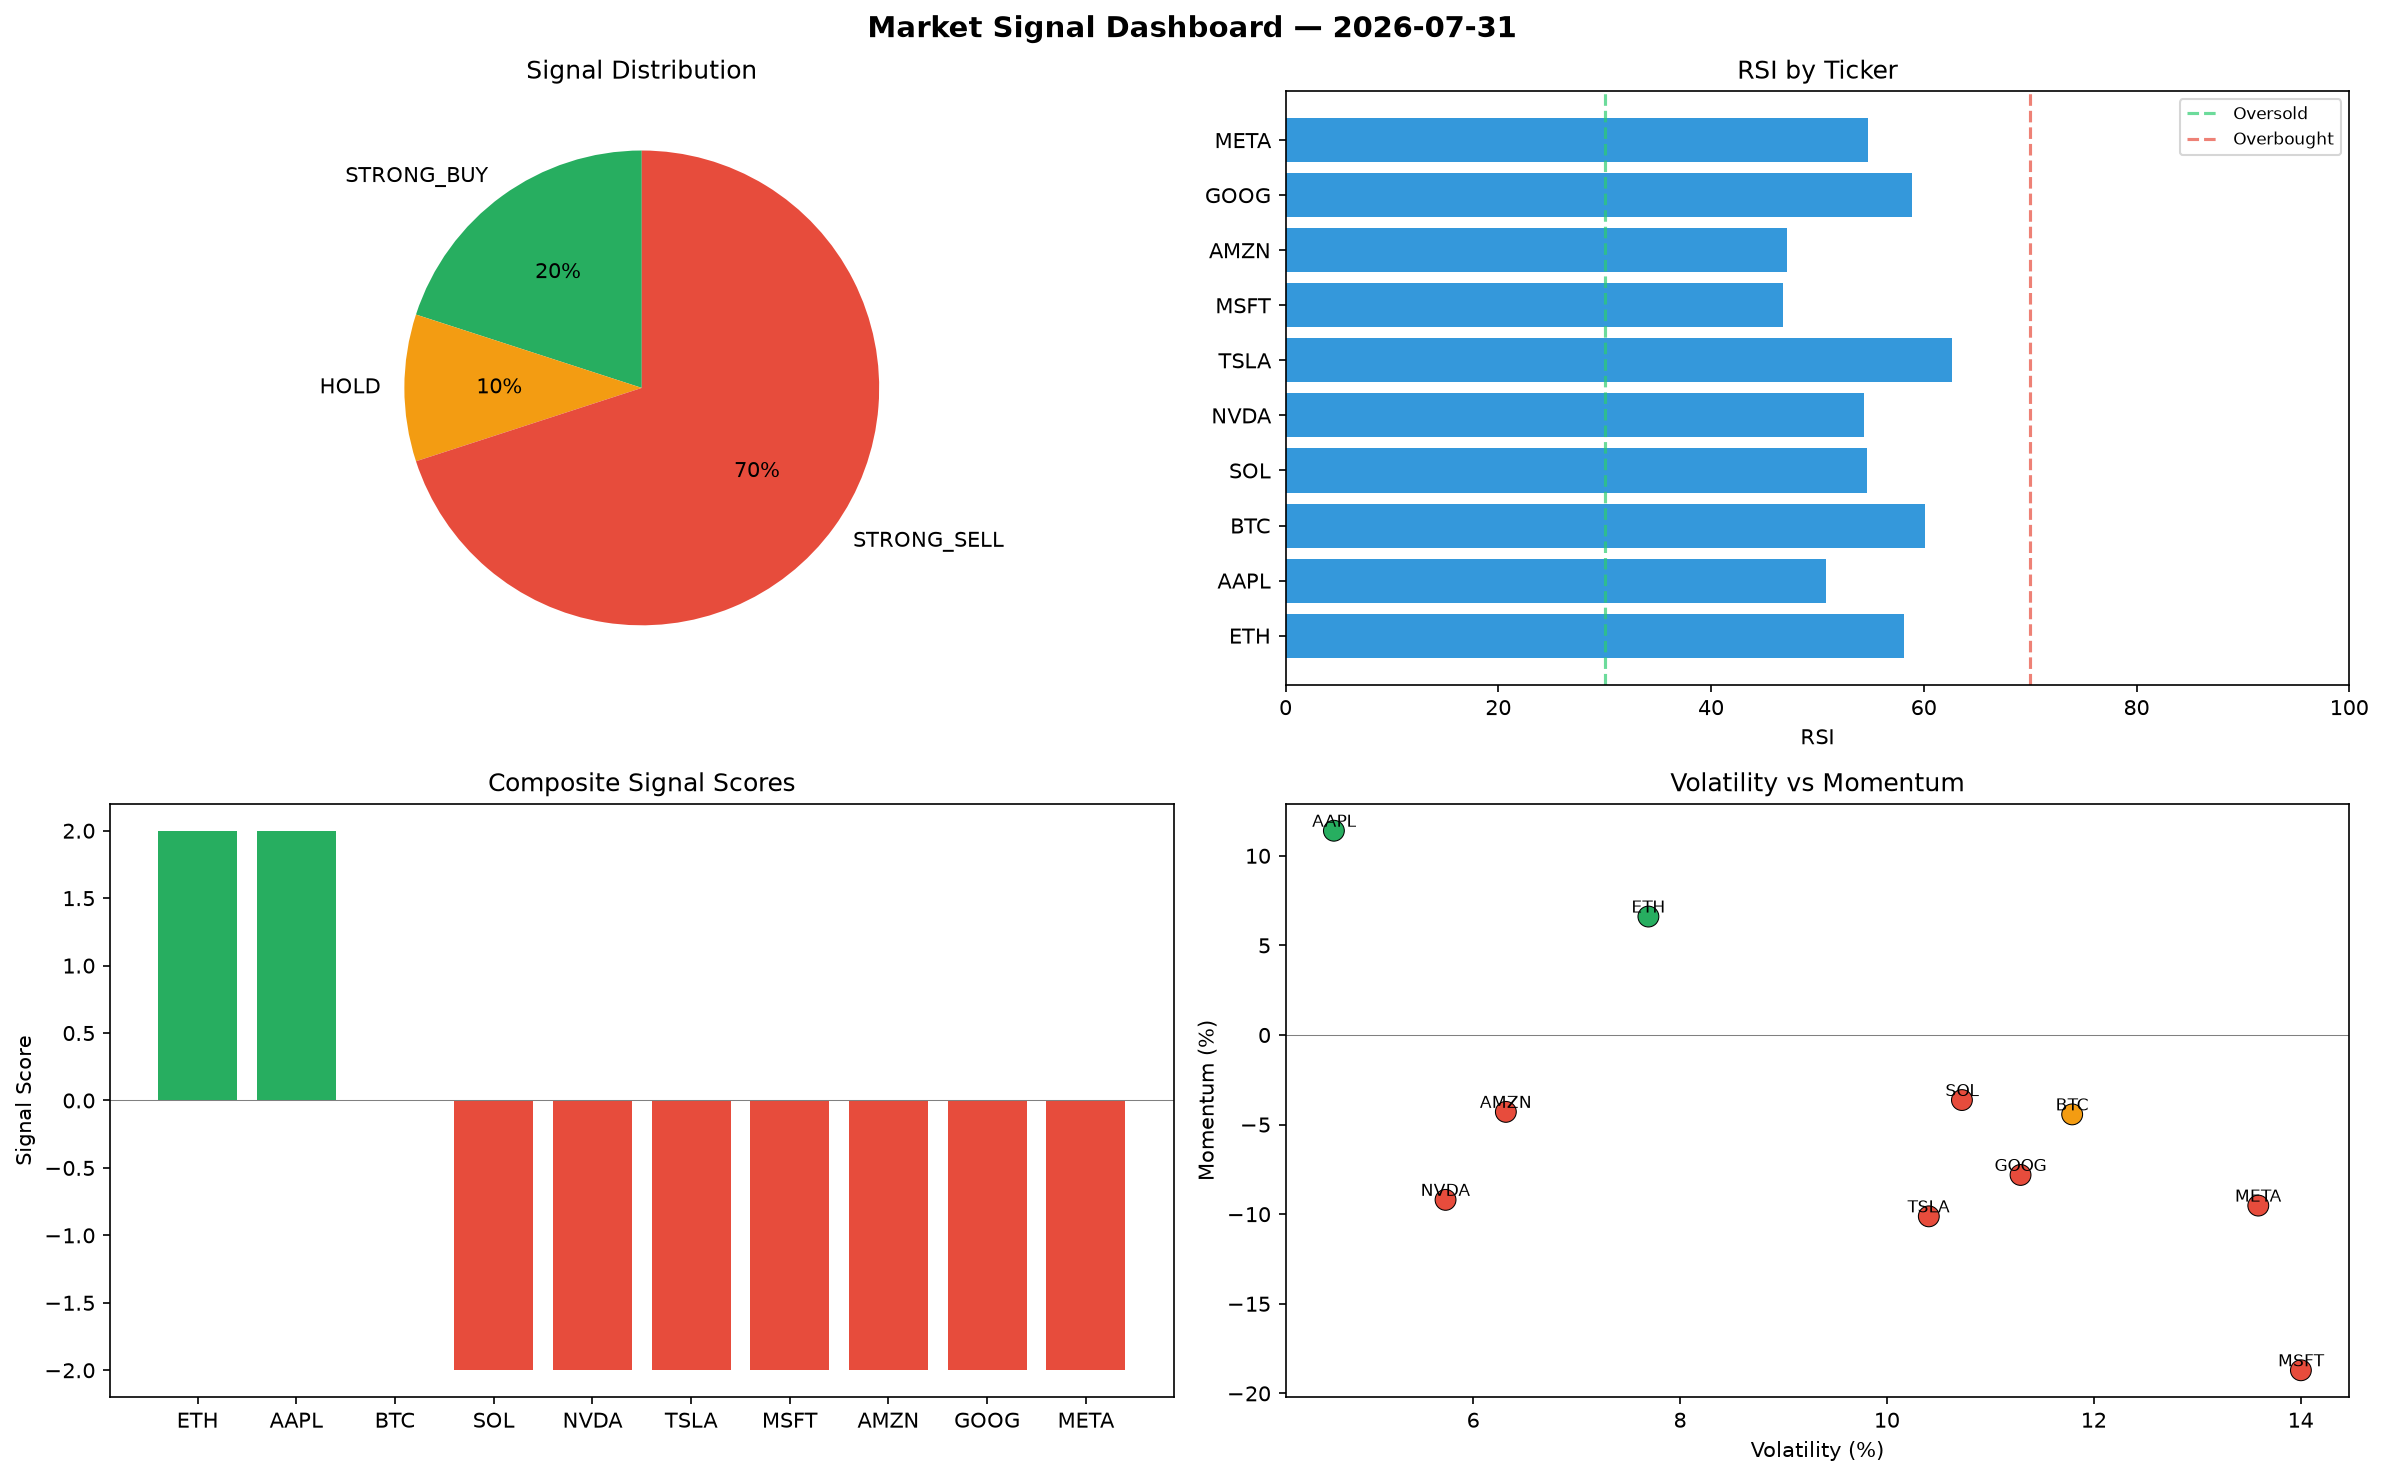
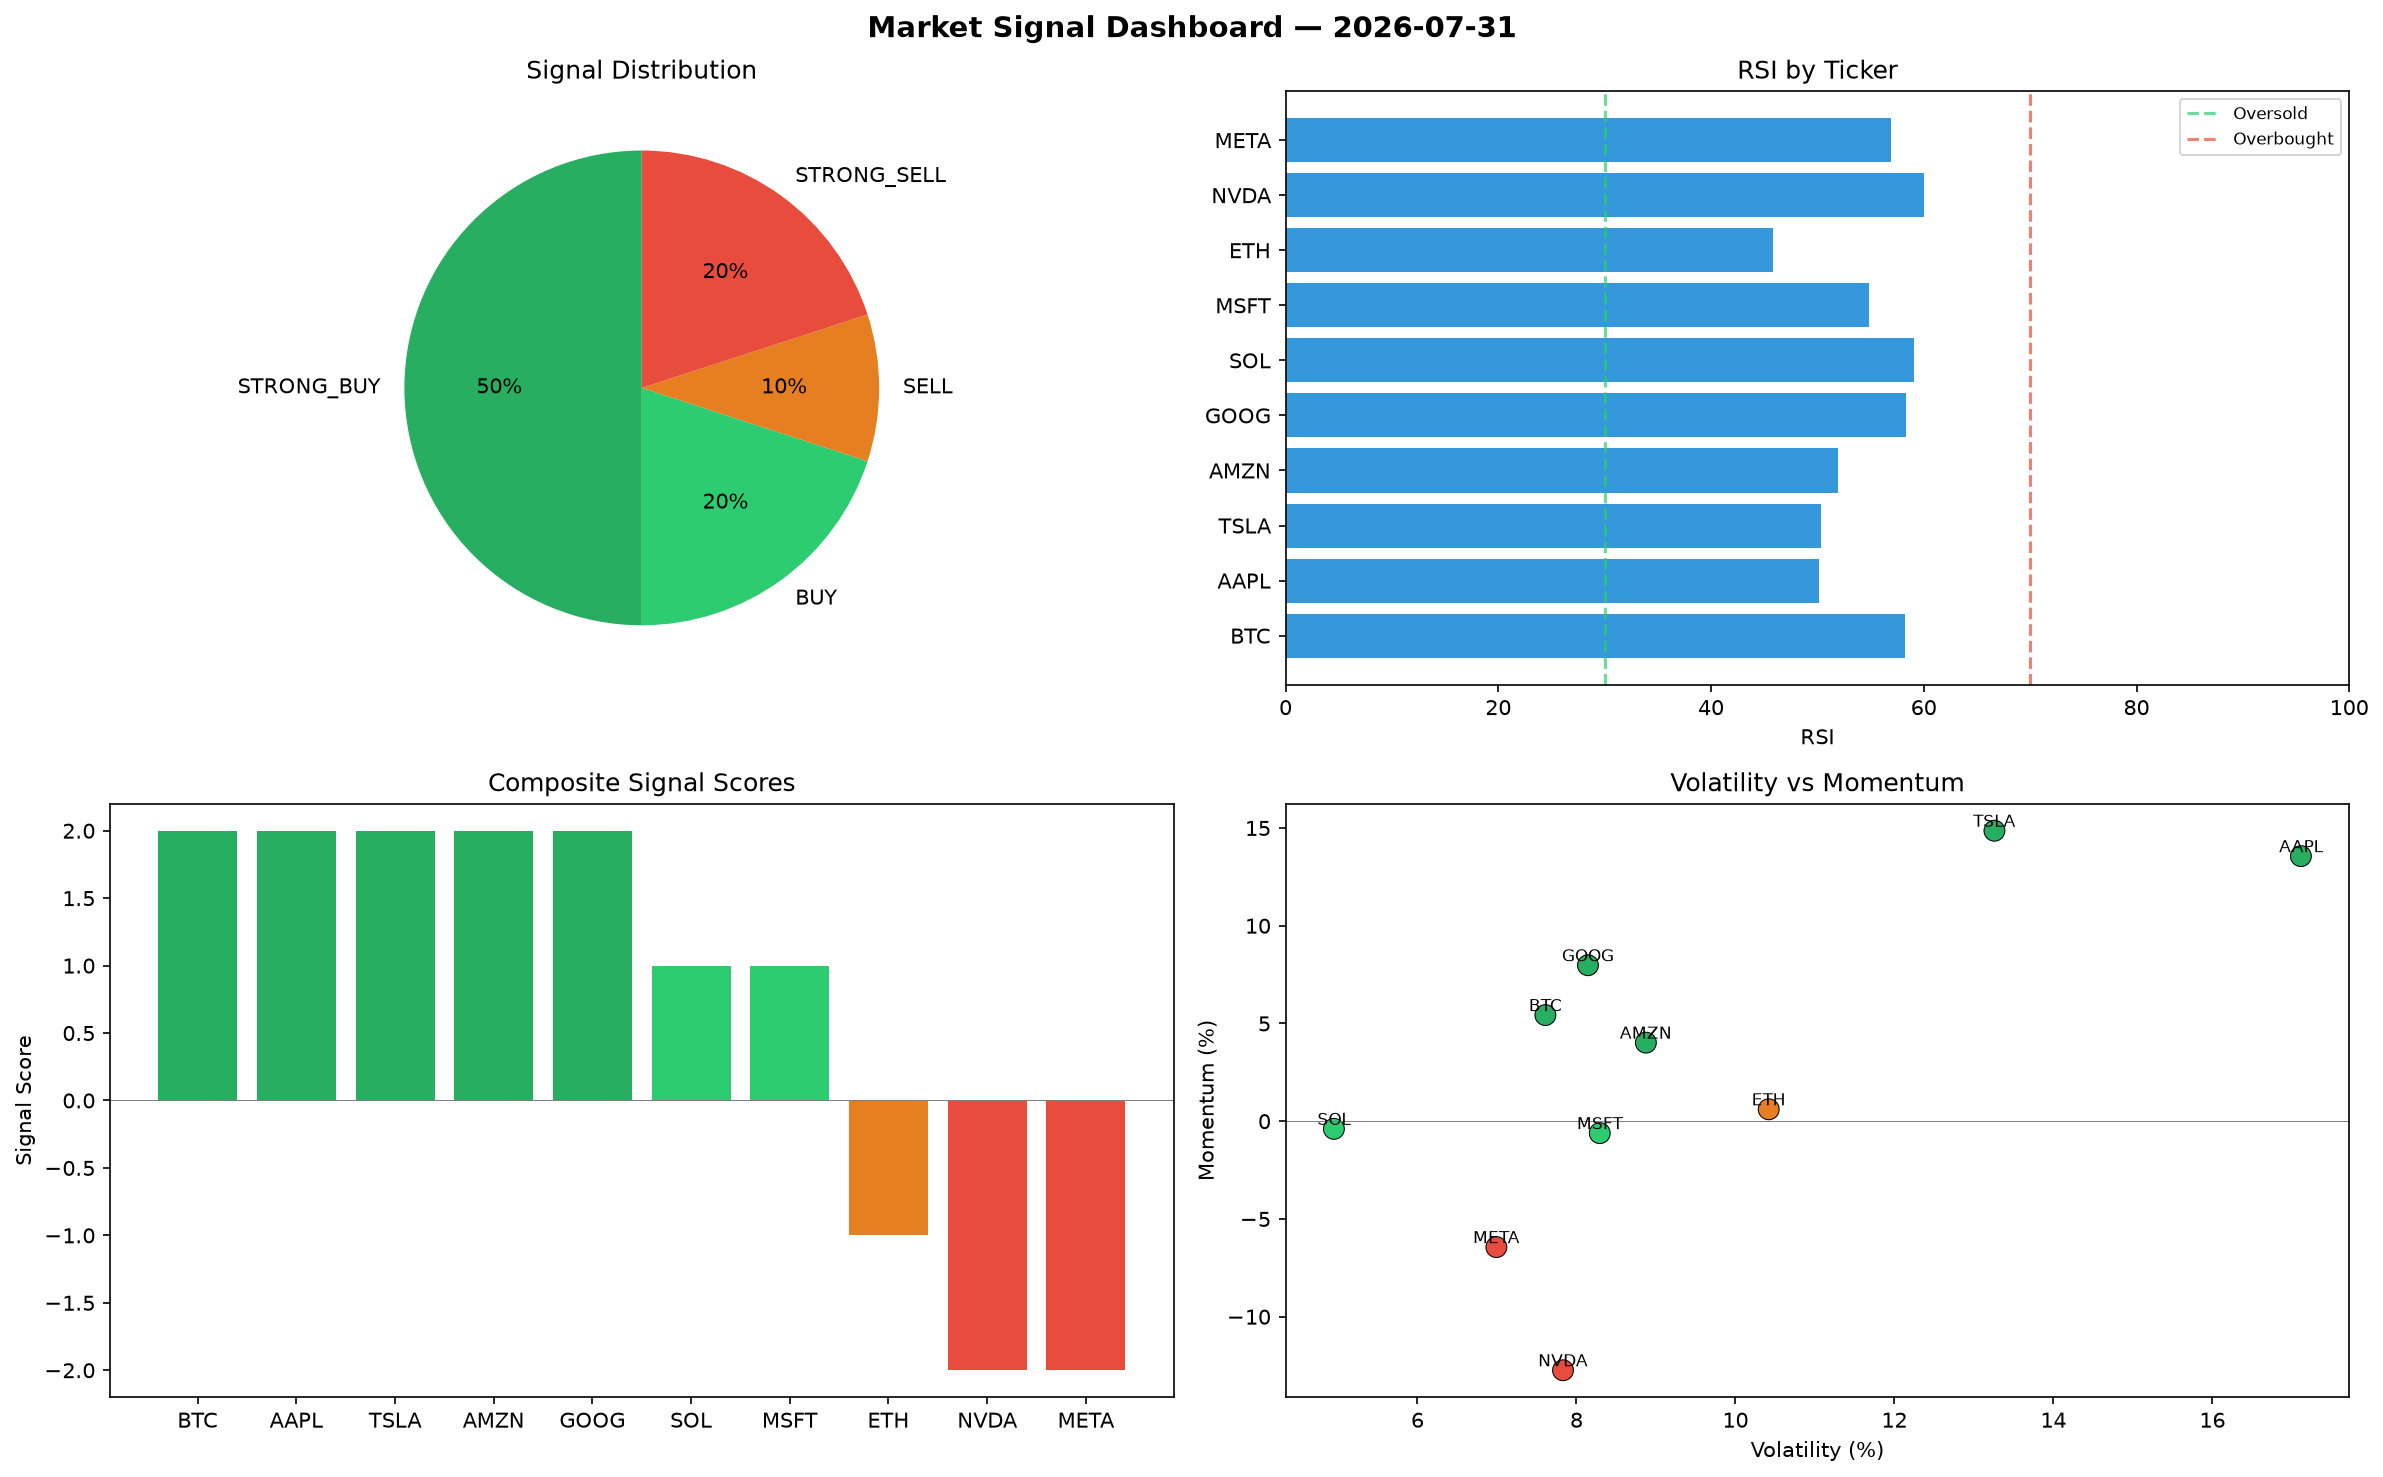
automated-bots: market signals 2026-07-31T21:33

diff --git a/logs/2026-07-31.md b/logs/2026-07-31.md
@@ -1,6 +1,6 @@
 # Market Signal Report — 2026-07-31
 
-**Run ID:** `24eac75e06` | **Buy:** 2 | **Sell:** 7 | **Hold:** 1
+**Run ID:** `f1bcf552d8` | **Buy:** 7 | **Sell:** 3 | **Hold:** 0
 
 ![Dashboard](2026-07-31_dashboard.png)
 
@@ -8,28 +8,28 @@
 
 | Ticker | Price | Signal | Score | RSI | Momentum | Confidence |
 |--------|-------|--------|-------|-----|----------|------------|
-| ETH | $542.57 | **STRONG_BUY** | 2 | 58.1 | 0.0661 | 0.5 |
-| AAPL | $286.99 | **STRONG_BUY** | 2 | 50.81 | 0.114 | 0.5 |
-| BTC | $1795.63 | **HOLD** | 0 | 60.11 | -0.0443 | 0.0 |
-| SOL | $4608.92 | **STRONG_SELL** | -2 | 54.69 | -0.0363 | 0.5 |
-| NVDA | $3077.55 | **STRONG_SELL** | -2 | 54.37 | -0.092 | 0.5 |
-| TSLA | $3180.49 | **STRONG_SELL** | -2 | 62.69 | -0.1012 | 0.5 |
-| MSFT | $1008.38 | **STRONG_SELL** | -2 | 46.8 | -0.1871 | 0.5 |
-| AMZN | $3193.59 | **STRONG_SELL** | -2 | 47.1 | -0.0429 | 0.5 |
-| GOOG | $2933.36 | **STRONG_SELL** | -2 | 58.9 | -0.0781 | 0.5 |
-| META | $4378.15 | **STRONG_SELL** | -2 | 54.73 | -0.0952 | 0.5 |
+| BTC | $431.97 | **STRONG_BUY** | 2 | 58.26 | 0.0543 | 0.5 |
+| AAPL | $2428.99 | **STRONG_BUY** | 2 | 50.13 | 0.1356 | 0.5 |
+| TSLA | $3090.4 | **STRONG_BUY** | 2 | 50.36 | 0.1486 | 0.5 |
+| AMZN | $4229.27 | **STRONG_BUY** | 2 | 51.92 | 0.0402 | 0.5 |
+| GOOG | $4453.75 | **STRONG_BUY** | 2 | 58.31 | 0.0798 | 0.5 |
+| SOL | $3242.21 | **BUY** | 1 | 59.12 | -0.0039 | 0.25 |
+| MSFT | $1416.15 | **BUY** | 1 | 54.88 | -0.0061 | 0.25 |
+| ETH | $462.79 | **SELL** | -1 | 45.78 | 0.0061 | 0.25 |
+| NVDA | $3766.54 | **STRONG_SELL** | -2 | 60.03 | -0.1274 | 0.5 |
+| META | $2913.93 | **STRONG_SELL** | -2 | 56.96 | -0.0644 | 0.5 |
 
 ## Delta vs Yesterday
 
 | Ticker | Today | Yesterday | Price Change | Signal Changed |
 |--------|-------|-----------|-------------|----------------|
-| ETH | STRONG_BUY | SELL | 📉 -38.7% | ⚠ YES |
-| AAPL | STRONG_BUY | BUY | 📉 -85.47% | ⚠ YES |
-| BTC | HOLD | BUY | 📉 -42.58% | ⚠ YES |
-| SOL | STRONG_SELL | SELL | 📈 10.62% | ⚠ YES |
-| NVDA | STRONG_SELL | HOLD | 📈 32.08% | ⚠ YES |
-| TSLA | STRONG_SELL | STRONG_BUY | 📈 113.12% | ⚠ YES |
-| MSFT | STRONG_SELL | STRONG_BUY | 📉 -42.58% | ⚠ YES |
-| AMZN | STRONG_SELL | STRONG_SELL | 📈 100.94% | — |
-| GOOG | STRONG_SELL | SELL | 📈 33.13% | ⚠ YES |
-| META | STRONG_SELL | STRONG_SELL | 📈 386.1% | — |
+| BTC | STRONG_BUY | BUY | 📉 -86.19% | ⚠ YES |
+| AAPL | STRONG_BUY | BUY | 📈 22.98% | ⚠ YES |
+| TSLA | STRONG_BUY | STRONG_BUY | 📈 107.08% | — |
+| AMZN | STRONG_BUY | STRONG_SELL | 📈 166.11% | ⚠ YES |
+| GOOG | STRONG_BUY | SELL | 📈 102.14% | ⚠ YES |
+| SOL | BUY | SELL | 📉 -22.18% | ⚠ YES |
+| MSFT | BUY | STRONG_BUY | 📉 -19.36% | ⚠ YES |
+| ETH | SELL | SELL | 📉 -47.71% | — |
+| NVDA | STRONG_SELL | HOLD | 📈 61.65% | ⚠ YES |
+| META | STRONG_SELL | STRONG_SELL | 📈 223.53% | — |
